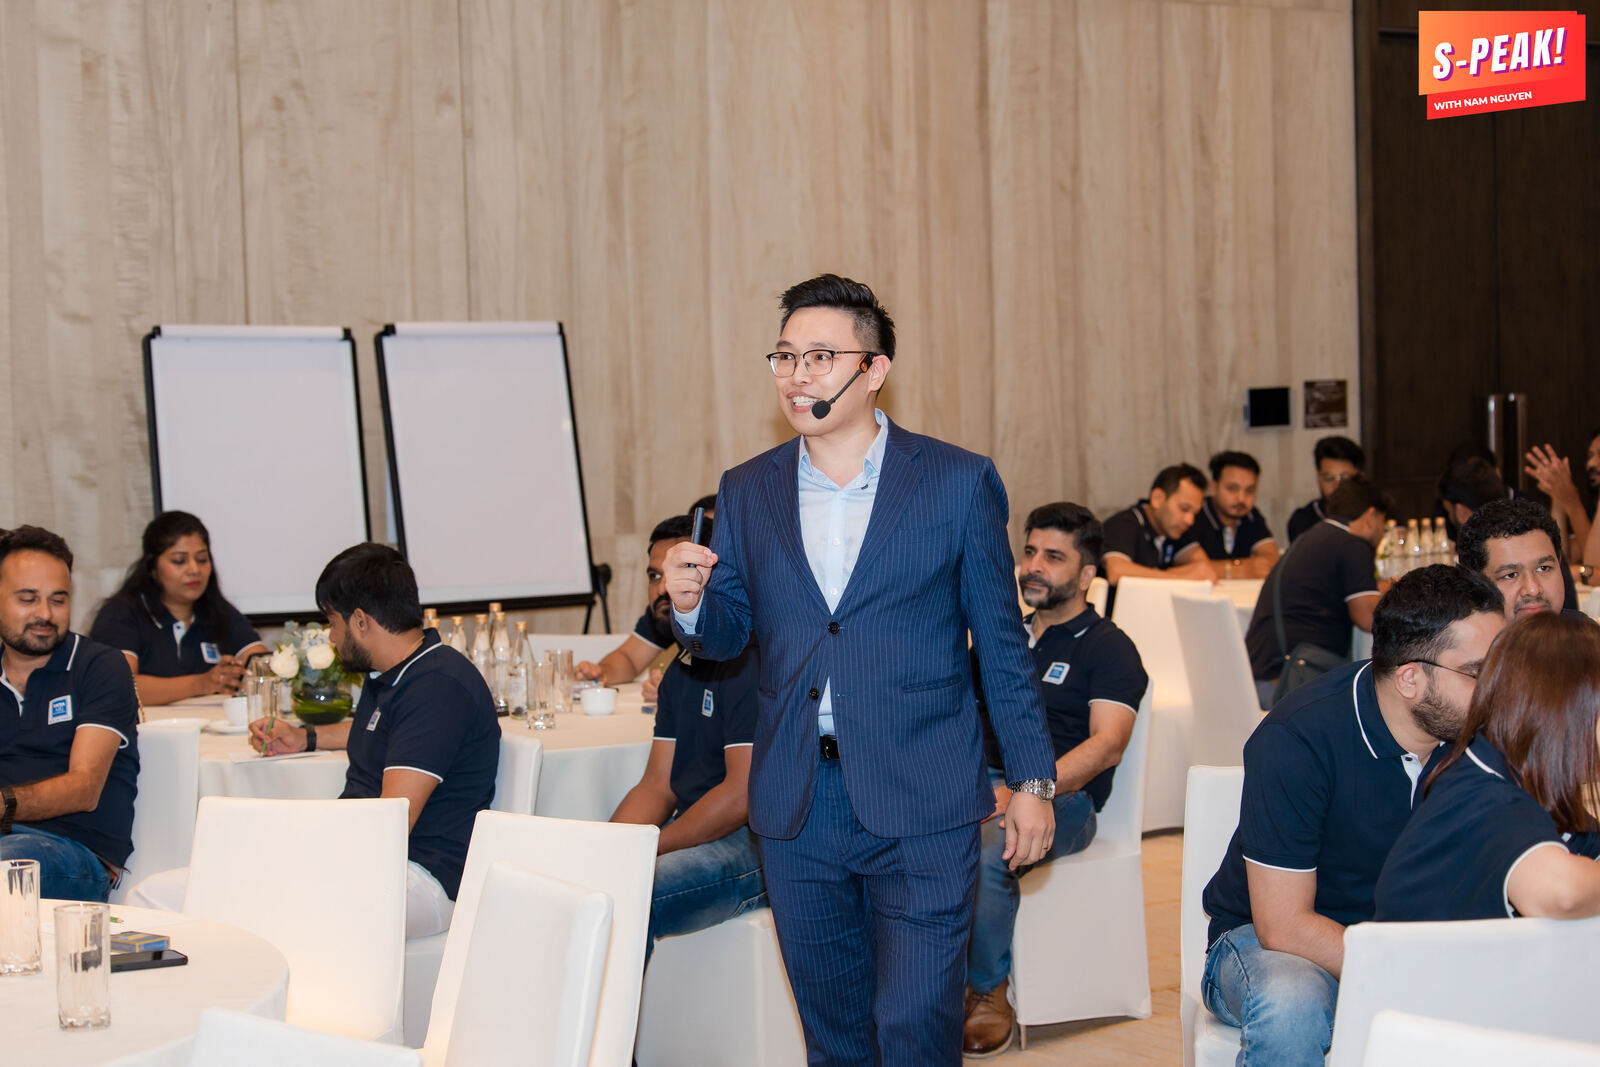
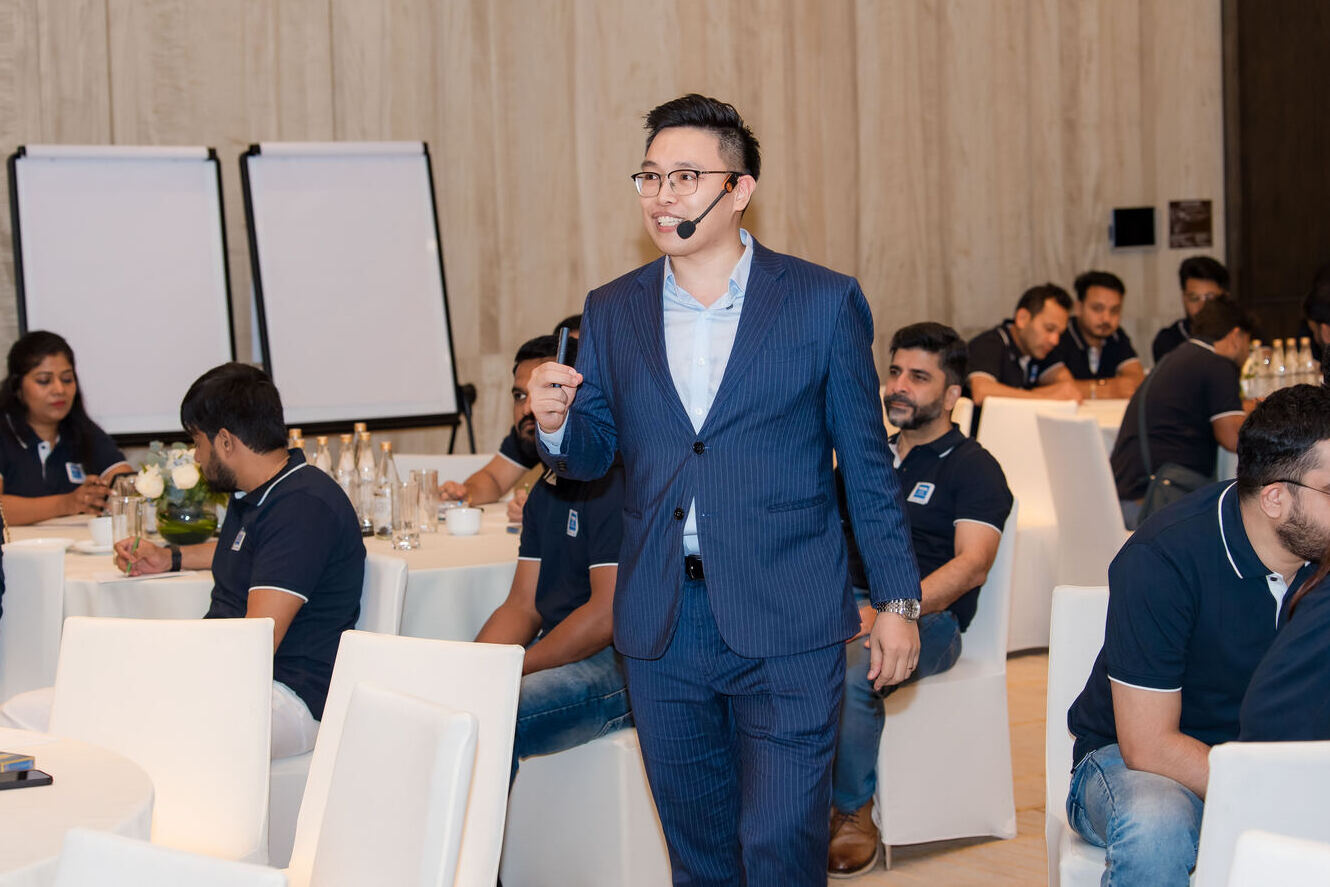
Fix Problem/Outcome section layout: crop images to remove dead space, unify aspect ratio, remove stray badge, add captions

diff --git a/s-peak/index.html b/s-peak/index.html
@@ -190,8 +190,13 @@
 
   /* ============ PROBLEM (dark, editorial) ============ */
   .problem{background:var(--navy);color:var(--ink-on-navy);}
-  .problem-media{margin-bottom:40px;border-radius:4px;overflow:hidden;max-width:720px;margin-inline:auto;}
-  .problem-media img{width:100%;height:auto;filter:saturate(.85) brightness(.92);}
+  .problem-media{margin-bottom:16px;border-radius:8px;overflow:hidden;max-width:720px;margin-inline:auto;aspect-ratio:3/2;}
+  .problem-media img{width:100%;height:100%;object-fit:cover;object-position:center 40%;filter:saturate(.85) brightness(.92);}
+  .media-caption{
+    max-width:720px;margin:0 auto 40px;text-align:center;
+    font-family:'Montserrat',sans-serif;font-style:italic;font-weight:500;
+    font-size:13px;letter-spacing:.01em;color:var(--slate);
+  }
   .prose{
     max-width:680px;
     margin-inline:auto;
@@ -223,8 +228,9 @@
   .outcome .prose h2{color:var(--ink);}
   .outcome .prose p{color:var(--body-on-paper);}
   .outcome .pull-quote{color:var(--ink);}
-  .outcome-media{margin-bottom:40px;border-radius:4px;overflow:hidden;max-width:720px;margin-inline:auto;}
-  .outcome-media img{width:100%;height:auto;}
+  .outcome-media{margin-bottom:16px;border-radius:8px;overflow:hidden;max-width:720px;margin-inline:auto;aspect-ratio:3/2;}
+  .outcome-media img{width:100%;height:100%;object-fit:cover;object-position:center 30%;}
+  .outcome .media-caption{color:var(--body-on-paper);}
 
   /* ============ MECHANISM ============ */
   .mechanism{background:var(--paper);}
@@ -544,6 +550,7 @@
     <div class="problem-media">
       <img src="images/problem-backstage.jpg" alt="Khoảnh khắc lặng lẽ trước khi bước lên sân khấu" loading="lazy">
     </div>
+    <p class="media-caption">Sau tràng vỗ tay, khán phòng vẫn im lặng — không ai chủ động tìm đến bạn.</p>
     <div class="prose reveal">
       <h2>Bạn đã đứng trên bao nhiêu sân khấu rồi —<span class="accent">mà vẫn chưa có thêm một khách hàng nào?</span></h2>
       <p>Bạn được mời chia sẻ ở một chương trình, được giới thiệu là chuyên gia trong lĩnh vực của mình. Bạn chuẩn bị cả tuần, thức khuya chỉnh slide, viết đi viết lại phần mở đầu. Sau khi nói, bạn bước xuống sân khấu với một tràng vỗ tay giòn giã. Bạn nghĩ mình đã là tất cả mọi thứ cần thiết nhưng không có bất kỳ một ai liên lạc với bạn sau chương trình.</p>
@@ -560,6 +567,7 @@
     <div class="outcome-media">
       <img src="images/outcome-onstage.jpg" alt="Nam Nguyễn làm chủ sân khấu, năng lượng cao" loading="lazy">
     </div>
+    <p class="media-caption">Nam Nguyễn dẫn dắt một buổi đào tạo doanh nghiệp với cấu trúc bài nói rõ ràng.</p>
     <div class="prose reveal">
       <h2>Hãy tưởng tượng bước xuống sân khấu —<span class="accent">và điện thoại bắt đầu reo.</span></h2>
       <p>Lần tiếp theo, bạn đi chia sẻ trong một chương trình với một bài nói đã được thiết kế có chủ đích — không "khủng bố" người nghe với tất cả những gì bạn biết, mà dẫn dắt họ một cách khéo léo: từ nghi ngờ, đến việc họ tự hỏi phải làm thế nào để có cơ hội được làm việc với bạn.</p>
